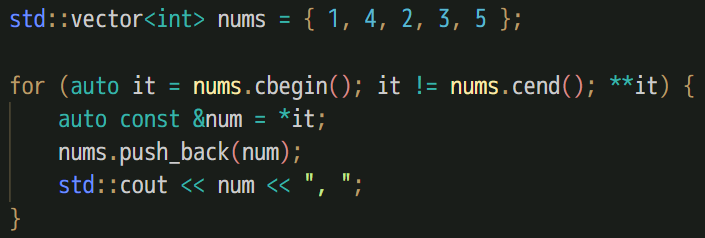
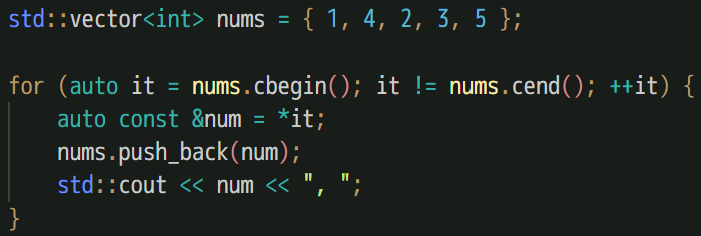
Fix code03

diff --git a/02/script.md b/02/script.md
@@ -84,7 +84,7 @@ int main() {
 ```cpp
 std::vector<int> nums = { 1, 4, 2, 3, 5 };
 
-for (auto it = nums.cbegin(); it != nums.cend(); **it) {
+for (auto it = nums.cbegin(); it != nums.cend(); ++it) {
     auto const &num = *it;
     nums.push_back(num);
     std::cout << num << ", ";
